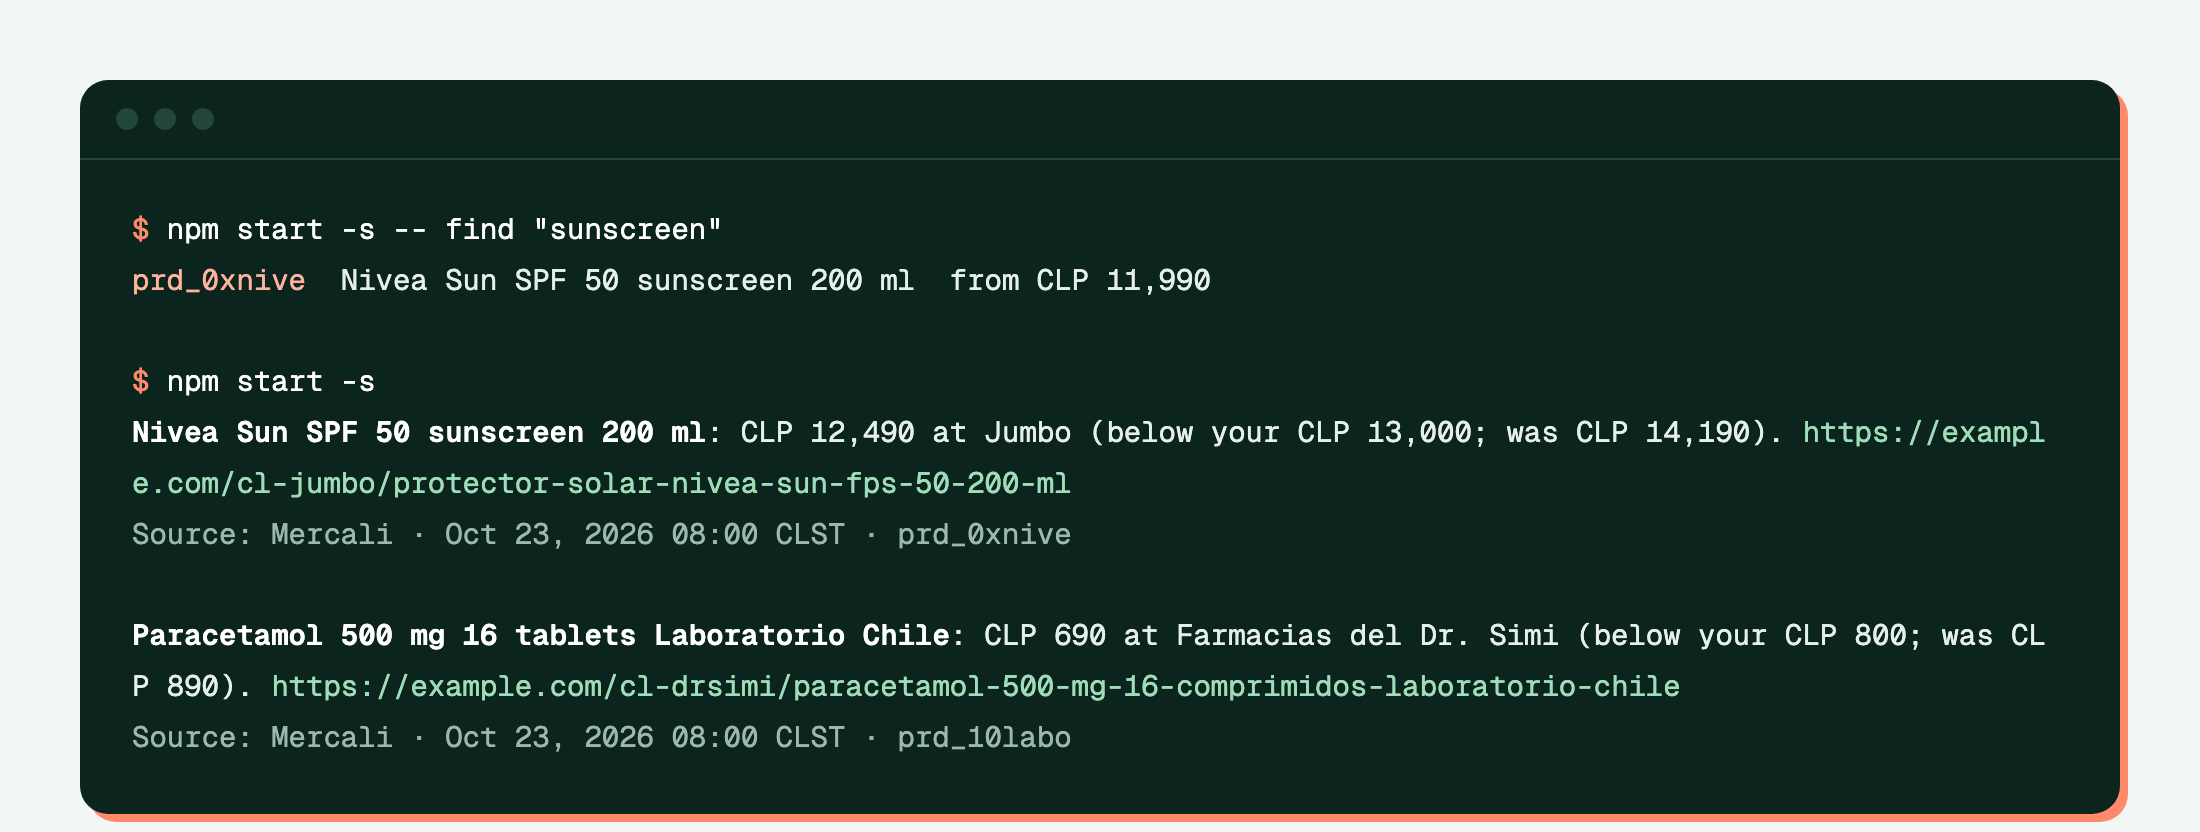
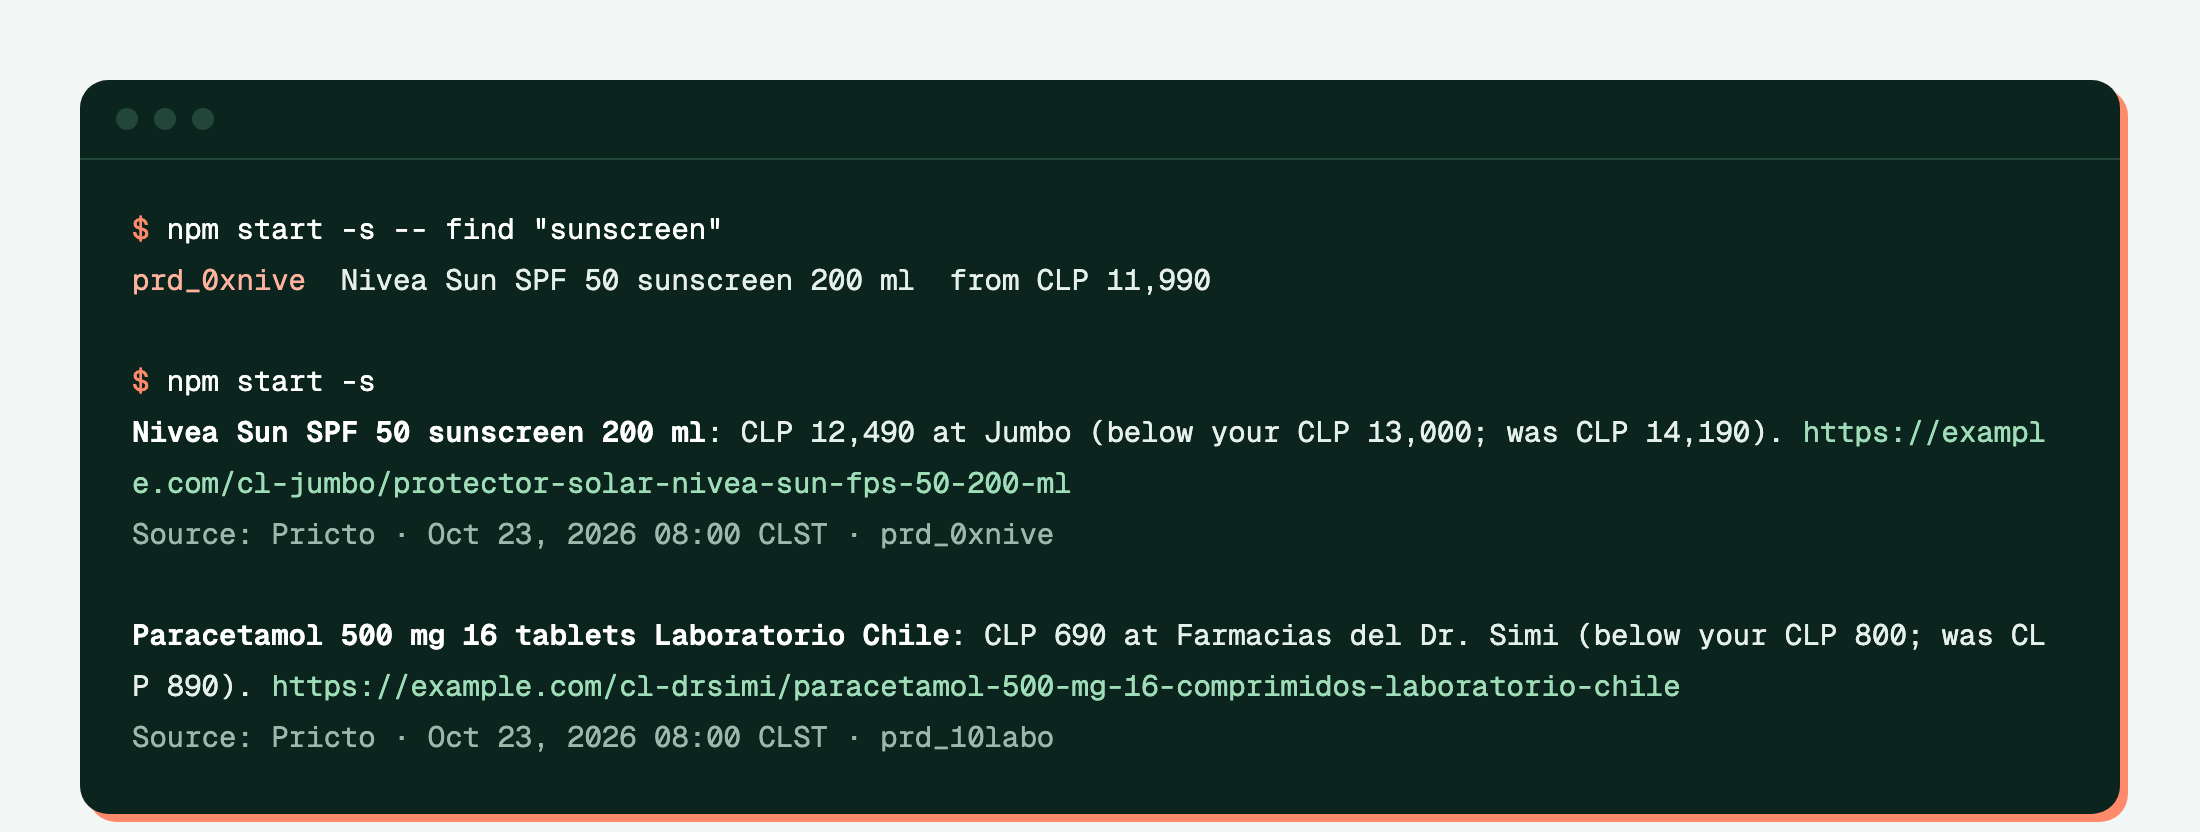
Marca Pricto: PRICTO_API_KEY y PRICTO_API_URL, textos y capturas
Las variables pasan a PRICTO_API_KEY y PRICTO_API_URL, los textos y los README nombran a
Pricto y las capturas se rehicieron contra la sandbox de producción, que ya firma con
Pricto. El host por omisión sigue en mercali-platform.vercel.app hasta que pricto.dev
sirva la API.

Changed region(s): [[0.1236, 0.875, 0.4945, 0.9062], [0.1236, 0.625, 0.4945, 0.6562]]

diff --git a/src/mcp.ts b/src/mcp.ts
@@ -1,12 +1,12 @@
-// El bot usa las mismas tools MCP que un agente: search_products, get_prices, etc.
+// El bot usa las mismas tools del MCP de Pricto que un agente: search_products, get_prices, etc.
 import { Client, StreamableHTTPClientTransport } from "@modelcontextprotocol/client";
 
 const DEFAULT_URL = "https://mercali-platform.vercel.app";
 
 export type Tools = { call<T>(name: string, args: Record<string, unknown>): Promise<T>; close(): Promise<void> };
 
-/** Sin PRICES_API_KEY se conecta a la sandbox sin login (/mcp/sandbox); con key, a /mcp. */
-export async function connect(key = process.env.PRICES_API_KEY, base = process.env.PRICES_API_URL || DEFAULT_URL): Promise<Tools> {
+/** Sin PRICTO_API_KEY se conecta a la sandbox sin login (/mcp/sandbox); con key, a /mcp. */
+export async function connect(key = process.env.PRICTO_API_KEY, base = process.env.PRICTO_API_URL || DEFAULT_URL): Promise<Tools> {
   const url = new URL(key ? "/mcp" : "/mcp/sandbox", base);
   const options = key ? { requestInit: { headers: { Authorization: `Bearer ${key}` } } } : undefined;
   const client = new Client({ name: "price-alerts-bot", version: "0.1.0" });

diff --git a/README.md b/README.md
@@ -2,13 +2,13 @@
 
 [English](README.en.md) · Español
 
-Te avisa cuando un producto baja del precio que elegiste en alguna tienda de Chile: por la consola, con una notificación push de [ntfy](https://ntfy.sh) (sin crear cuenta) o con un webhook (Slack, Discord o tu propio servidor). Habla con la API por MCP, con las mismas tools que usa un agente, y un agente puede configurarle las alertas.
+Te avisa cuando un producto baja del precio que elegiste en alguna tienda de Chile: por la consola, con una notificación push de [ntfy](https://ntfy.sh) (sin crear cuenta) o con un webhook (Slack, Discord o tu propio servidor). Habla con [Pricto](https://pricto.dev) por MCP, con las mismas tools que usa un agente, y un agente puede configurarle las alertas.
 
 ![El bot encuentra un producto y avisa dos bajas de precio](docs/terminal-es.png)
 
 ## Pruébalo en un minuto
 
-Requiere Node 22 o superior. No necesitas cuenta: sin `PRICES_API_KEY` se conecta a la sandbox pública por MCP (`/mcp/sandbox`, sin login), que responde con datos de ejemplo.
+Requiere Node 22 o superior. No necesitas cuenta: sin `PRICTO_API_KEY` se conecta a la sandbox pública por MCP (`/mcp/sandbox`, sin login), que responde con datos de ejemplo.
 
 ```bash
 git clone https://github.com/MarceloFarrMintii/price-alerts-bot && cd price-alerts-bot
@@ -42,15 +42,15 @@ El bot avisa una vez, el día en que el precio cruza el umbral: compara el preci
 |---|---|
 | `NTFY_TOPIC` | Publica en `ntfy.sh/<tema>`. Instala la app de ntfy (o abre `https://ntfy.sh/<tema>`) y suscríbete al mismo tema. No hay cuenta: el nombre del tema funciona como contraseña, así que elige uno difícil de adivinar. `NTFY_URL` cambia el servidor si tienes uno propio. |
 | `WEBHOOK_URL` | Hace `POST` con JSON: `text` y `content` traen el mensaje (los campos que leen los webhooks entrantes de Slack y de Discord) y `alerts`, el detalle de cada aviso. |
-| `PRICES_API_KEY` | Tu API key. Sin ella, la sandbox. |
-| `PRICES_API_URL` | Otra instancia de la API (por omisión `https://mercali-platform.vercel.app`) |
+| `PRICTO_API_KEY` | Tu API key. Sin ella, la sandbox. |
+| `PRICTO_API_URL` | Otra instancia de la API (por omisión `https://mercali-platform.vercel.app`) |
 | `LANG` | `es_CL.UTF-8` para mensajes y nombres en español; si no, en inglés. |
 
 Sin `NTFY_TOPIC` ni `WEBHOOK_URL`, el aviso sale solo por la consola.
 
 ## Que corra todos los días
 
-El repo trae [`.github/workflows/alerts.yml`](.github/workflows/alerts.yml): GitHub Actions lo corre una vez al día (13:00 UTC) y también a mano desde la pestaña Actions. En Settings → Secrets and variables → Actions agrega `NTFY_TOPIC` o `WEBHOOK_URL`, y `PRICES_API_KEY` para datos reales. Para cambiar las alertas, edita `alerts.json` y haz commit.
+El repo trae [`.github/workflows/alerts.yml`](.github/workflows/alerts.yml): GitHub Actions lo corre una vez al día (13:00 UTC) y también a mano desde la pestaña Actions. En Settings → Secrets and variables → Actions agrega `NTFY_TOPIC` o `WEBHOOK_URL`, y `PRICTO_API_KEY` para datos reales. Para cambiar las alertas, edita `alerts.json` y haz commit.
 
 ## Con tu agente
 
@@ -82,7 +82,7 @@ npm test
 npm run typecheck
 ```
 
-`PRICES_API_URL=http://localhost:8787 npm test` los corre contra una instancia local.
+`PRICTO_API_URL=http://localhost:8787 npm test` los corre contra una instancia local.
 
 ## Licencia
 

diff --git a/README.en.md b/README.en.md
@@ -2,13 +2,13 @@
 
 English · [Español](README.md)
 
-Get notified when a product drops below your price at any Chilean store: on the console, as a push notification through [ntfy](https://ntfy.sh) (no account needed) or through a webhook (Slack, Discord or your own server). It talks to the API over MCP, with the same tools an agent uses, and an agent can set up the alerts for you.
+Get notified when a product drops below your price at any Chilean store: on the console, as a push notification through [ntfy](https://ntfy.sh) (no account needed) or through a webhook (Slack, Discord or your own server). It talks to [Pricto](https://pricto.dev) over MCP, with the same tools an agent uses, and an agent can set up the alerts for you.
 
 ![The bot finds a product and reports two price drops](docs/terminal-en.png)
 
 ## Try it in a minute
 
-Needs Node 22 or later. No account needed: without `PRICES_API_KEY` it connects to the public sandbox over MCP (`/mcp/sandbox`, no login), which answers with sample data.
+Needs Node 22 or later. No account needed: without `PRICTO_API_KEY` it connects to the public sandbox over MCP (`/mcp/sandbox`, no login), which answers with sample data.
 
 ```bash
 git clone https://github.com/MarceloFarrMintii/price-alerts-bot && cd price-alerts-bot
@@ -42,15 +42,15 @@ The bot notifies once, on the day the price crosses the threshold: it compares t
 |---|---|
 | `NTFY_TOPIC` | Publishes to `ntfy.sh/<topic>`. Install the ntfy app (or open `https://ntfy.sh/<topic>`) and subscribe to the same topic. There is no account: the topic name works as a password, so pick one that is hard to guess. `NTFY_URL` points to your own server if you have one. |
 | `WEBHOOK_URL` | Sends a JSON `POST`: `text` and `content` hold the message (the fields Slack and Discord incoming webhooks read) and `alerts` holds the details of each alert. |
-| `PRICES_API_KEY` | Your API key. Without it, the sandbox. |
-| `PRICES_API_URL` | Another API instance (default `https://mercali-platform.vercel.app`) |
+| `PRICTO_API_KEY` | Your API key. Without it, the sandbox. |
+| `PRICTO_API_URL` | Another API instance (default `https://mercali-platform.vercel.app`) |
 | `LANG` | `es_CL.UTF-8` for messages and product names in Spanish; English otherwise. |
 
 Without `NTFY_TOPIC` or `WEBHOOK_URL`, alerts only go to the console.
 
 ## Run it every day
 
-The repo includes [`.github/workflows/alerts.yml`](.github/workflows/alerts.yml): GitHub Actions runs it once a day (13:00 UTC) and on demand from the Actions tab. Under Settings → Secrets and variables → Actions add `NTFY_TOPIC` or `WEBHOOK_URL`, and `PRICES_API_KEY` for real data. To change the alerts, edit `alerts.json` and commit.
+The repo includes [`.github/workflows/alerts.yml`](.github/workflows/alerts.yml): GitHub Actions runs it once a day (13:00 UTC) and on demand from the Actions tab. Under Settings → Secrets and variables → Actions add `NTFY_TOPIC` or `WEBHOOK_URL`, and `PRICTO_API_KEY` for real data. To change the alerts, edit `alerts.json` and commit.
 
 ## With your agent
 
@@ -82,7 +82,7 @@ npm test
 npm run typecheck
 ```
 
-`PRICES_API_URL=http://localhost:8787 npm test` runs them against a local instance.
+`PRICTO_API_URL=http://localhost:8787 npm test` runs them against a local instance.
 
 ## License
 

diff --git a/AGENTS.md b/AGENTS.md
@@ -10,7 +10,7 @@ Este repo avisa cuando un producto baja de un precio. Las alertas están en `ale
 - `below`: el aviso sale cuando el precio queda bajo este monto, en la moneda local (CLP sin decimales).
 - `retailers` (opcional): IDs de tienda; sin él, todas.
 
-El servidor MCP `prices` (en `.mcp.json`, la sandbox sin login) trae las tools. Cuando la persona pida una alerta:
+El servidor MCP `pricto` (en `.mcp.json`, la sandbox de Pricto sin login) trae las tools. Cuando la persona pida una alerta:
 
 1. Busca el producto con `search_products` y confirma con ella cuál es si hay más de uno parecido.
 2. Mira el precio de hoy con `get_prices` y dile en qué tienda y a qué hora se observó. Si el umbral ya está sobre el precio actual, avísale que la alerta saldría de inmediato.
